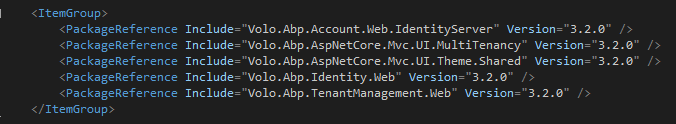
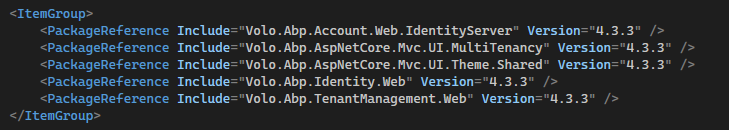
Update README

diff --git a/README.MD b/README.MD
@@ -152,7 +152,7 @@ Projeyi **Build** edelim.
 
 Aktif versiyon
 
-> ABP v3.2.0
+> ABP v4.3.3
 
 `Abp.AspNetCore.Mvc.UI.Theme.AdminLTE.csproj` tema proje dosyasında ABP paketlerinin versiyonlarını güncellemeniz yeterli.
 
